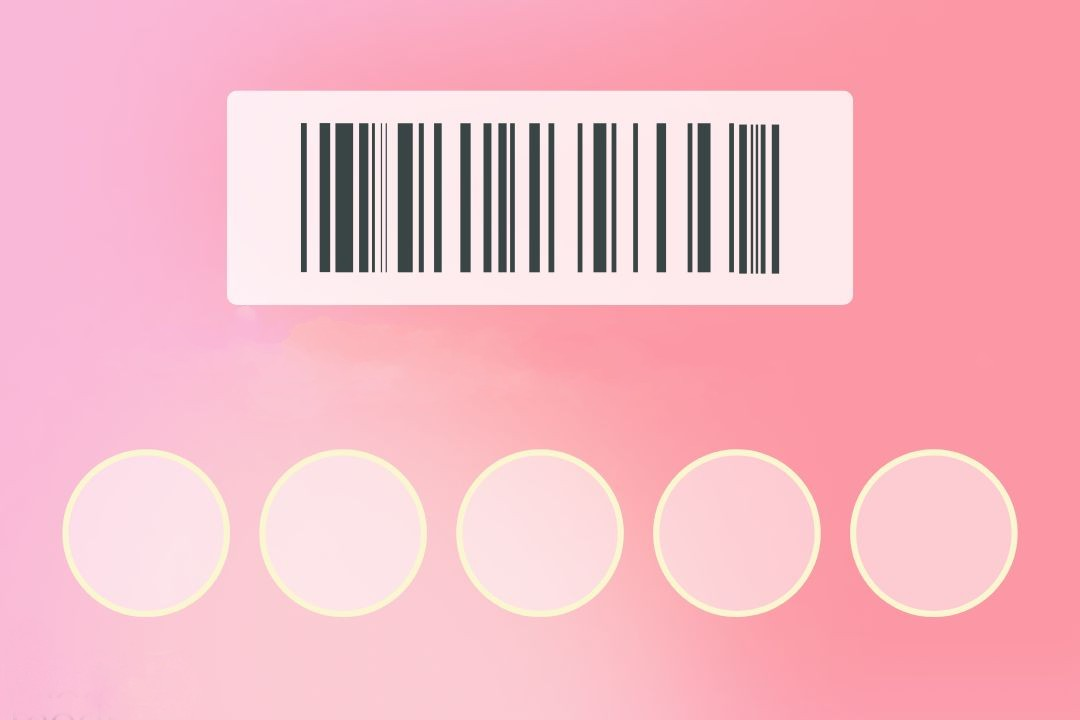
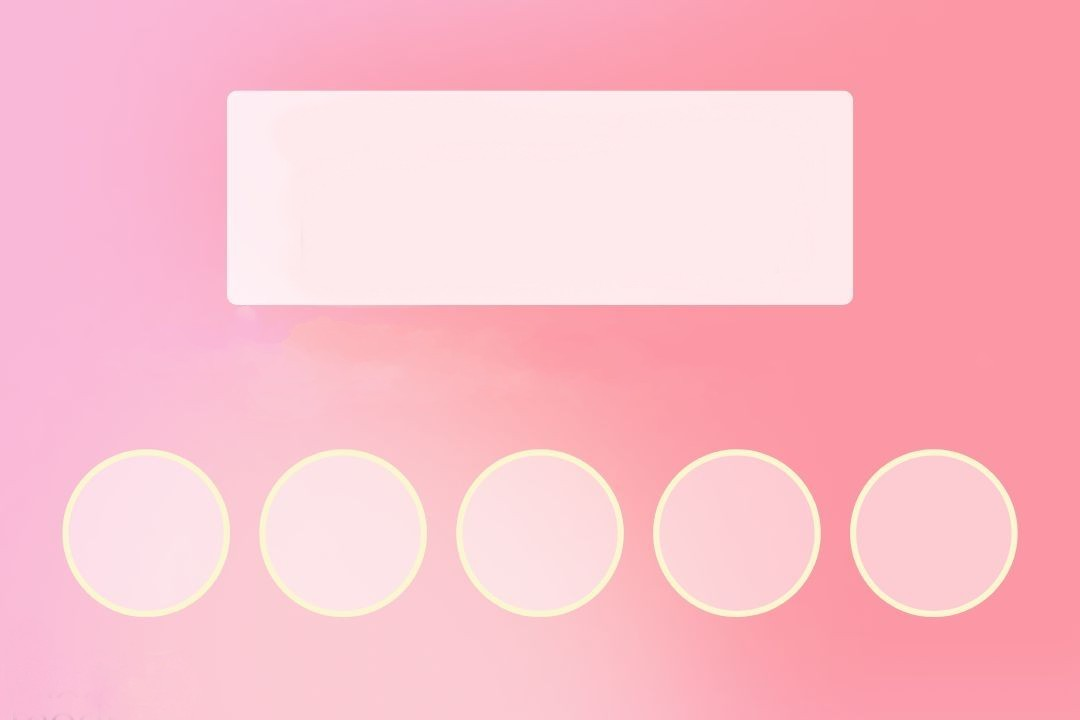
fixed loyalty cards design, added gradient to tabs

Changed region(s): [[0.275, 0.1528, 0.7333, 0.3972]]

diff --git a/Frontend/components/LoyaltyCard.tsx b/Frontend/components/LoyaltyCard.tsx
@@ -2,6 +2,7 @@ import React from 'react';
 import {
   View, Text, ImageBackground, StyleSheet,
 } from 'react-native';
+import Barcode from '@kichiyaki/react-native-barcode-generator';
 
 import LoyaltyCardImage1 from '../assets/LoyaltyCard1.jpg';
 import LoyaltyCardImage2 from '../assets/LoyaltyCard2.jpg';
@@ -23,43 +24,63 @@ function LoyaltyCard({ loyaltyCard }) {
   };
 
   return (
-    <ImageBackground source={getImage()} style={styles.card}>
-      <View style={styles.cardContent}>
+    <View style={styles.card}>
+      <ImageBackground source={getImage()} style={styles.backgroundImage} resizeMode="cover">
         <Text style={styles.cardNumber}>{card_number}</Text>
+        <Barcode value={card_number} format="CODE128" width={1.30} maxWidth={300} height={50} style={styles.barcode} />
         <Text style={styles.memberName}>{member_name}</Text>
-        {card_expiry && (
-        <Text style={styles.expiry}>
+        <Text style={styles.expiryDate}>
           Expires:
           {card_expiry}
         </Text>
-        )}
-      </View>
-    </ImageBackground>
+      </ImageBackground>
+    </View>
   );
 }
 
 const styles = StyleSheet.create({
-  card: {
-    height: 200,
-    justifyContent: 'flex-end',
-    margin: 10,
-    padding: 20,
+  backgroundImage: {
+    flex: 1,
+    justifyContent: 'space-between',
+    padding: 15,
   },
-  cardContent: {
-    backgroundColor: 'rgba(255, 255, 255, 0.8)',
-    padding: 10,
+  barcode: {
+    alignSelf: 'center',
+    marginTop: 15,
+  },
+  card: {
+    borderRadius: 10,
+    height: 200,
+    marginVertical: 10,
+    overflow: 'hidden',
+    width: '100%',
   },
   cardNumber: {
-    fontSize: 18,
-    fontWeight: 'bold',
+    color: '#000000',
+    fontSize: 10,
+
+    left: 10,
+    position: 'absolute',
+    top: 5,
   },
-  expiry: {
-    color: 'red',
-    fontSize: 14,
+  contentContainer: {
+    alignItems: 'center',
+    flex: 1,
+    justifyContent: 'center',
+  },
+  expiryDate: {
+    bottom: 5,
+    color: '#000000',
+    fontSize: 12,
+    position: 'absolute',
+    right: 10,
   },
   memberName: {
-    color: 'navy',
-    fontSize: 16,
+    bottom: 5,
+    color: '#000000',
+    fontSize: 12,
+    left: 10,
+    position: 'absolute',
   },
 });
 

diff --git a/Frontend/components/CardFilterTabs/Tab.tsx b/Frontend/components/CardFilterTabs/Tab.tsx
@@ -1,40 +1,49 @@
 import React from 'react';
-import { Text, TouchableOpacity, StyleSheet } from 'react-native';
+import {
+  Text, TouchableOpacity, View, StyleSheet,
+} from 'react-native';
+import { LinearGradient } from 'expo-linear-gradient';
 
 function Tab({ isActive, onPress, label }) {
   return (
-    <TouchableOpacity
-      style={[styles.tab, isActive ? styles.activeTab : styles.inactiveTab]}
-      onPress={onPress}
-    >
-      <Text style={styles.tabText}>{label}</Text>
+    <TouchableOpacity onPress={onPress} style={styles.tab} activeOpacity={0.8}>
+      <LinearGradient
+        colors={isActive ? ['#ccfed8', '#bbe8d2', '#b0dad9', '#a6cee0', '#9ac0e8', '#94b9ff', '#768ed2'] : ['#FFFFFF', '#FFFFFF']}
+        start={{ x: 0, y: 0 }}
+        end={{ x: 1, y: 0 }}
+        style={styles.linearGradient}
+      >
+        <View style={styles.innerContainer}>
+          <Text style={styles.buttonText}>{label}</Text>
+        </View>
+      </LinearGradient>
     </TouchableOpacity>
+
   );
 }
 
 const styles = StyleSheet.create({
-  activeTab: {
-    backgroundColor: '#0f003f',
-    borderColor: 'cyan',
-    borderWidth: 2,
+  buttonText: {
+    backgroundColor: 'transparent',
+    color: '#ffffff',
+    textAlign: 'center',
   },
-  inactiveTab: {
+  innerContainer: {
     backgroundColor: '#0f003f',
-    borderColor: '#F0F0F0',
-    borderWidth: 2,
-  },
-  tab: {
-    alignItems: 'center',
     borderRadius: 20,
     flex: 1,
     justifyContent: 'center',
-    margin: 5,
-    paddingHorizontal: 16,
-    paddingVertical: 8,
+    margin: 2,
   },
-  tabText: {
-    color: '#F0F0F0',
-    fontSize: 16,
+  linearGradient: {
+    borderRadius: 20,
+    height: 40,
+    width: 200,
+  },
+  tab: {
+    alignItems: 'center',
+    flex: 1,
+    justifyContent: 'center',
   },
 });
 

diff --git a/Frontend/api/api.ts b/Frontend/api/api.ts
@@ -70,13 +70,13 @@ export const getWalletCards = async (walletId: string) => {
 
 export const fetchLoyaltyCards = async () => [
   {
-    card_number: '1234567890123451', member_name: 'Test', card_expiry: '12/24',
+    card_number: '1234567890123451', member_name: 'Member Name', card_expiry: '12/24',
   },
   {
-    card_number: '2345678901234563', member_name: 'Test', card_expiry: '11/25',
+    card_number: '2345678901234563', member_name: 'Member Name', card_expiry: '11/25',
   },
   {
-    card_number: '2345678901234564', member_name: 'Test', card_expiry: '11/25',
+    card_number: '2345678901234564', member_name: 'Member Name', card_expiry: '10/23',
   },
 ];
 
